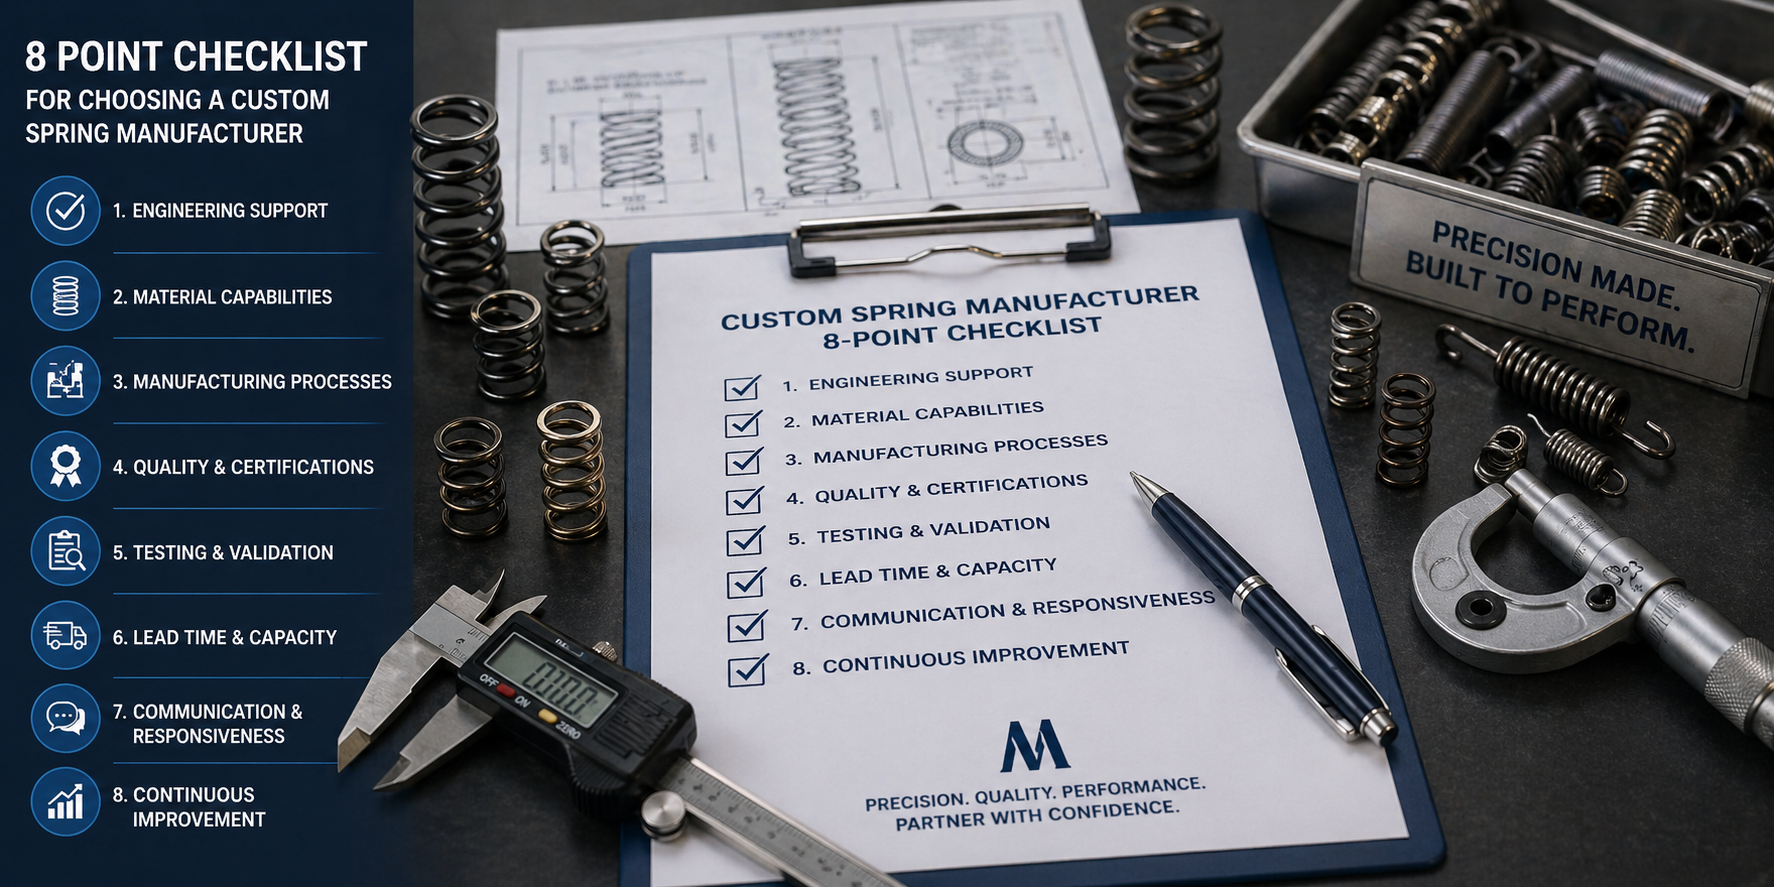
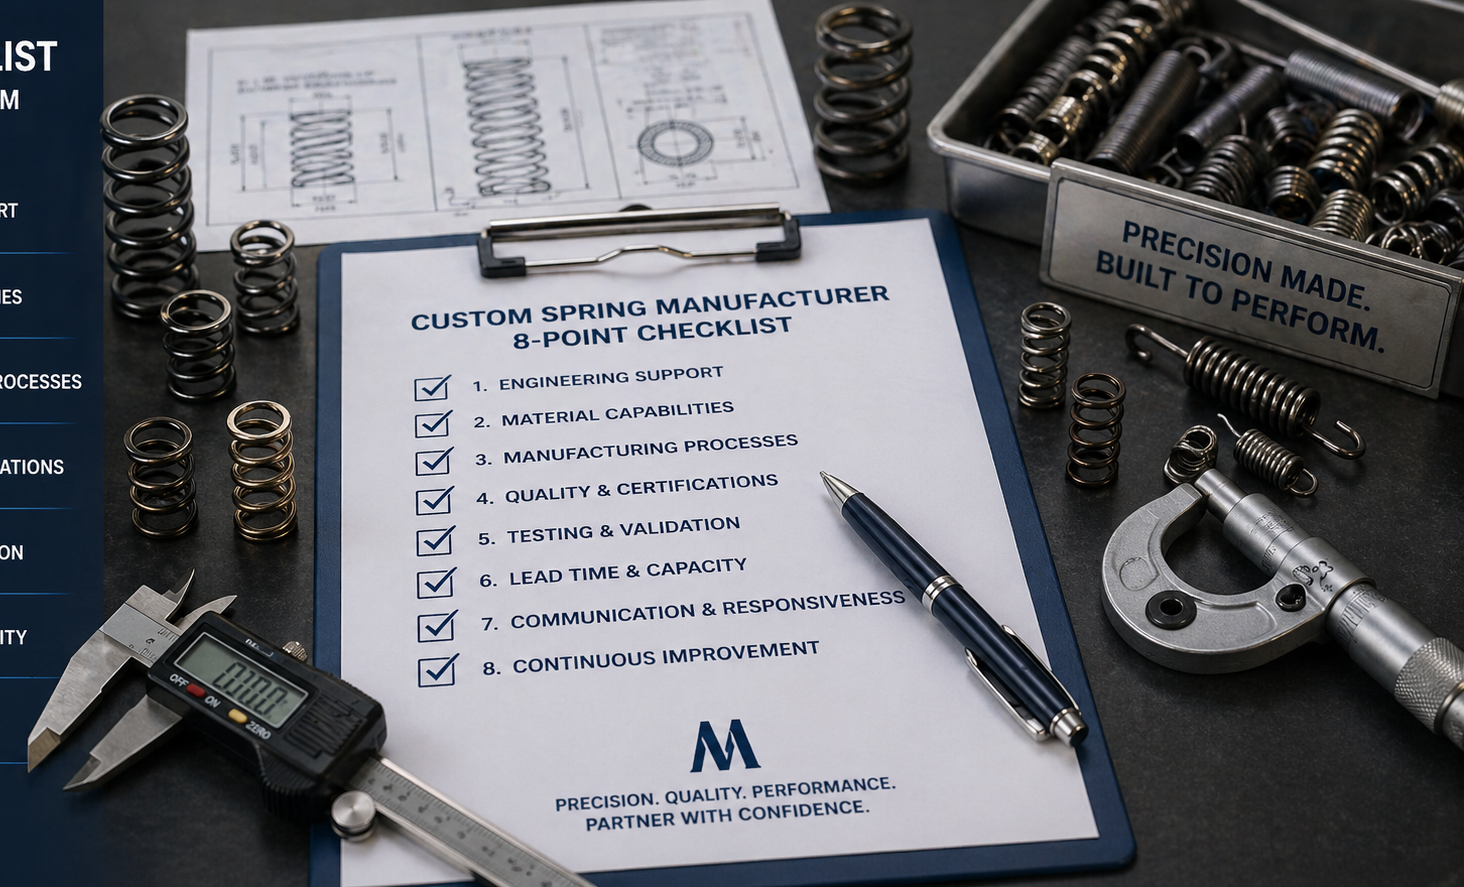
Crop checklist image, update article

diff --git a/src/components/insights/articlesData.ts b/src/components/insights/articlesData.ts
@@ -25,8 +25,8 @@ export const articles: Article[] = [
     subtitle: 'What separates a precision manufacturing partner from just another supplier',
     category: 'Procurement',
     readTime: '7 min read',
-    coverImage: '/checklist.jpg',
-    coverAlt: 'Manufacturing technicians inspecting a compression spring with calipers',
+    coverImage: '/checklist.png',
+    coverAlt: '8-point checklist for choosing a custom spring manufacturer with springs and precision tools',
     excerpt:
       'Sourcing custom springs is not like buying off-the-shelf hardware. The wrong supplier decision can result in delayed production, failed inspections, or springs that simply do not perform. Use this checklist before committing to any manufacturer.',
     body: [